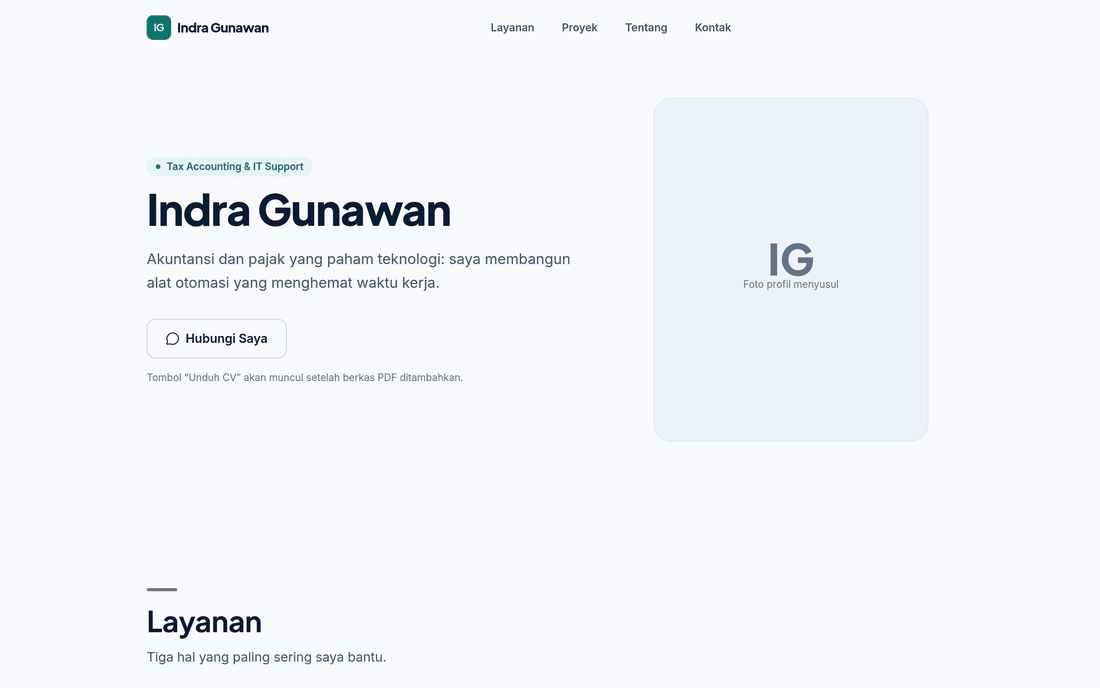
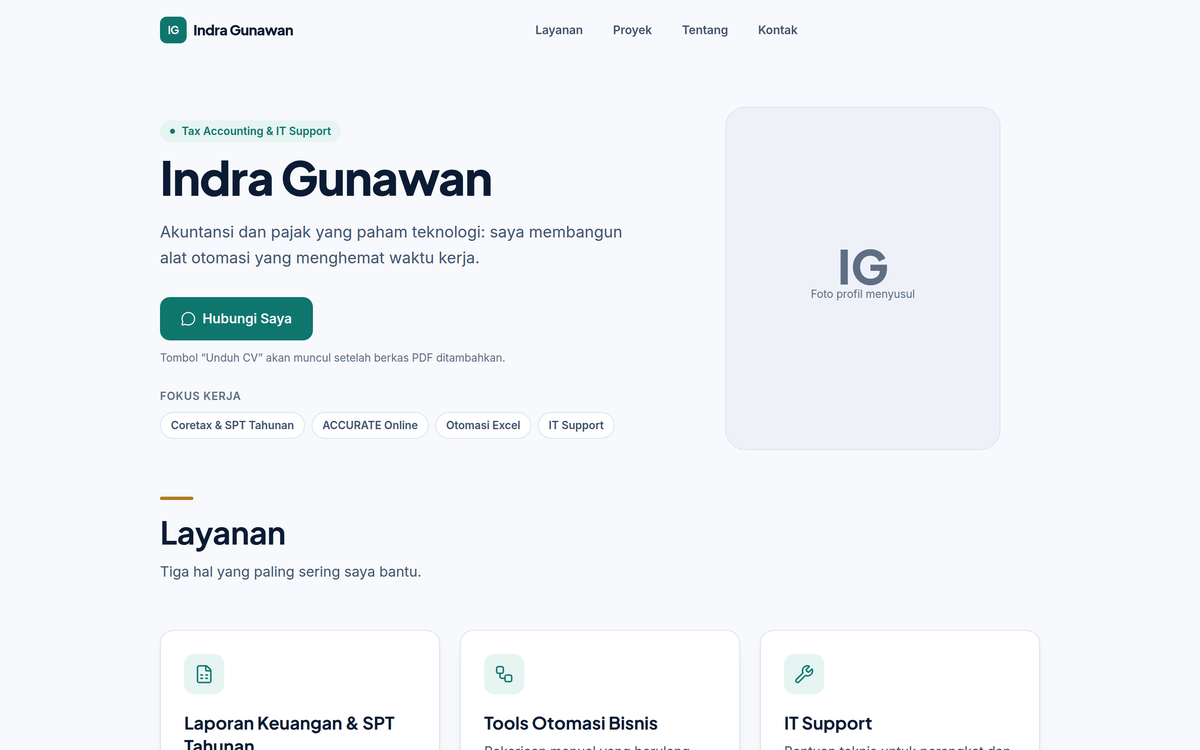
feat: polesan tampilan tahap 2 dan link uji lewat terowongan
Kontras, ritme jarak, dan CTA diperbaiki berdasarkan tinjauan tampilan nyata:

- Kontras teks: terang-ink-3 jadi #5f6e83 (4,62:1), gelap-ink-3 jadi #88a0ba
  (5,23:1); seluruh 18 pasangan warna >= 4,5:1 (AA)
- Anchor navbar tidak lagi menutupi judul bagian (scroll-margin-top 88px)
- Hero dipangkas, Layanan dan Proyek Pendukung memakai opsi rapatAtas
  (sekaligus memperbaiki bug jarak: pt-0 sebelumnya dikirim ke <section>)
- CTA Hero: Hubungi Saya jadi tombol utama, Unduh CV sekunder
- Label Fokus kerja + tekstur kisi halus di zona gelap
- Fitur unggulan dua kolom di layar lebar; label placeholder dirapikan
- Hapus ID video contoh milik orang lain dari proyek.js
- cdp.mjs: profil Chrome dibuat di folder sementara sistem dan dihapus saat
  ditutup (sebelumnya 52 folder sisa membuat /tmp penuh)
- vite.config.js: allowedHosts agar bisa diuji lewat terowongan

diff --git a/src/components/Hero.jsx b/src/components/Hero.jsx
@@ -45,7 +45,7 @@ export default function Hero() {
       aria-labelledby="hero-judul"
       className="bg-terang-bg pt-24 md:pt-32"
     >
-      <div className="mx-auto grid w-full max-w-isi items-center gap-10 px-5 pb-16 md:grid-cols-[1.15fr_0.85fr] md:gap-14 md:px-8 md:pb-24">
+      <div className="mx-auto grid w-full max-w-isi items-center gap-10 px-5 pb-10 md:grid-cols-[1.15fr_0.85fr] md:gap-14 md:px-8 md:pb-14">
         {/* ---------- Teks ---------- */}
         <motion.div {...gerakTeks}>
           <motion.p
@@ -73,7 +73,7 @@ export default function Hero() {
 
           <motion.div variants={varianAnak} className="mt-8 flex flex-wrap gap-3">
             {adaTautan(profil.cv) ? (
-              <Tombol href={profil.cv} variant="utama" ukuran="lg" ikon={Download} download>
+              <Tombol href={profil.cv} variant="sekunder" ukuran="lg" ikon={Download} download>
                 {teks.nav.unduhCv}
               </Tombol>
             ) : null}
@@ -82,7 +82,7 @@ export default function Hero() {
               href={tautanWhatsApp(
                 'Halo, saya melihat portofolio Anda dan ingin berdiskusi.',
               )}
-              variant="sekunder"
+              variant="utama"
               ukuran="lg"
               denganIkonWa
             >
@@ -90,12 +90,32 @@ export default function Hero() {
             </Tombol>
           </motion.div>
 
-          {/* Catatan bantu: HANYA saat mode contoh, tidak tampil di situs publik */}
+          {/* Catatan bantu: HANYA saat mode contoh, tidak tampil di situs publik.
+              Ditaruh langsung di bawah tombol supaya jelas merujuk ke tombol itu. */}
           {MODE_DUMMY && !adaTautan(profil.cv) ? (
-            <motion.p variants={varianAnak} className="mt-4 text-micro text-terang-ink-3">
+            <motion.p variants={varianAnak} className="mt-3 text-micro text-terang-ink-3">
               Tombol “Unduh CV” akan muncul setelah berkas PDF ditambahkan.
             </motion.p>
           ) : null}
+
+          {/* Penanda keahlian: mempercepat pengunjung memahami bidangnya (PRD §2) */}
+          <motion.p
+            variants={varianAnak}
+            className="mt-7 text-micro font-semibold uppercase tracking-wider text-terang-ink-3"
+          >
+            {teks.hero.fokusKerja}
+          </motion.p>
+          <motion.ul variants={varianAnak} className="mt-2.5 flex flex-wrap gap-2">
+            {profil.keunggulan.map((k) => (
+              <li
+                key={k}
+                className="rounded-full border border-terang-border bg-terang-surface px-3 py-1.5 text-micro font-semibold text-terang-ink-2"
+              >
+                {k}
+              </li>
+            ))}
+          </motion.ul>
+
         </motion.div>
 
         {/* ---------- Foto ---------- */}
@@ -103,7 +123,7 @@ export default function Hero() {
           initial={kurangiGerak ? false : { opacity: 0, y: 16 }}
           animate={kurangiGerak ? false : { opacity: 1, y: 0 }}
           transition={{ duration: 0.5, delay: 0.15, ease: [0.22, 1, 0.36, 1] }}
-          className="relative mx-auto w-full max-w-[280px] sm:max-w-[320px] md:max-w-[360px] md:justify-self-end"
+          className="relative mx-auto w-full max-w-[260px] sm:max-w-[300px] md:max-w-[330px] md:justify-self-end"
         >
           {/* Bingkai foto: rasio 4:5 */}
           <div className="relative overflow-hidden rounded-media border border-terang-border bg-terang-surface-2">

diff --git a/src/index.css b/src/index.css
@@ -16,7 +16,7 @@
   --color-terang-border-kuat: #c3cedf;
   --color-terang-ink: #0b1b33;
   --color-terang-ink-2: #41546e;
-  --color-terang-ink-3: #64748b; /* 4.76:1 di atas latar terang (AA) */
+  --color-terang-ink-3: #5f6e83; /* >=4.62:1 di semua permukaan zona terang (AA) */
 
   /* ---------- Zona gelap: IT, otomasi, demo ---------- */
   --color-gelap-bg: #0a1f38;
@@ -24,7 +24,7 @@
   --color-gelap-border: #1e4066;
   --color-gelap-ink: #eaf1f9;
   --color-gelap-ink-2: #a9bdd4;
-  --color-gelap-ink-3: #7b93ae;
+  --color-gelap-ink-3: #88a0ba; /* >=5.23:1 di semua permukaan zona gelap (AA) */
 
   /* ---------- Aksen (hanya dua: teal + emas) ---------- */
   --color-teal: #0f766e;
@@ -132,6 +132,28 @@ h4 {
 /* Gradasi perpindahan antar zona (DESIGN.md §2) */
 .zona-transisi {
   height: 128px;
+}
+
+/* Tekstur halus untuk zona gelap: kisi tipis 32 px supaya bidang gelap tidak
+   terasa rata, tanpa mengganggu teks. Ukurannya sengaja tidak terlihat jelas. */
+.latar-kisi {
+  background-image:
+    linear-gradient(to right, rgb(255 255 255 / 0.032) 1px, transparent 1px),
+    linear-gradient(to bottom, rgb(255 255 255 / 0.032) 1px, transparent 1px);
+  background-size: 32px 32px;
+  /* Hilangkan tekstur tepat di tepi atas/bawah agar pergantian zona tetap mulus */
+  mask-image: linear-gradient(to bottom, transparent, black 12%, black 88%, transparent);
+}
+
+/* Warna seleksi teks mengikuti aksen, bukan biru bawaan browser */
+::selection {
+  background: var(--color-teal-lembut);
+  color: var(--color-teal-tua);
+}
+
+/* Lompatan anchor tidak boleh tertutup navigasi tetap (72 px) */
+[data-jangkar] {
+  scroll-margin-top: 88px;
 }
 
 /* Hormati preferensi pengunjung: hilangkan transisi CSS apa pun */

diff --git a/src/components/ProyekUnggulan.jsx b/src/components/ProyekUnggulan.jsx
@@ -49,7 +49,7 @@ export default function ProyekUnggulan() {
           <div className="flex flex-wrap items-center gap-3">
             <LabelBidang anak={p.bidang} zona="gelap" />
             {p.teknologi?.length ? (
-              <span className="text-micro text-gelap-ink-3">{p.teknologi.join(' · ')}</span>
+              <span className="text-micro text-gelap-ink-2">{p.teknologi.join(' · ')}</span>
             ) : null}
           </div>
 
@@ -77,7 +77,7 @@ export default function ProyekUnggulan() {
               <p className="mb-2 text-micro font-semibold uppercase tracking-wider text-gelap-ink-3">
                 {teks.studiKasus.fitur}
               </p>
-              <ul className="flex flex-col gap-2">
+              <ul className="grid gap-2 lg:grid-cols-2 lg:gap-x-6">
                 {p.fitur.map((f) => (
                   <li key={f} className="flex items-start gap-2 text-body text-gelap-ink-2">
                     <CircleCheck
@@ -111,7 +111,7 @@ export default function ProyekUnggulan() {
           <div className="mt-8">
             <div className="mb-3 flex items-baseline justify-between gap-3">
               <h4 className="font-judul text-[17px] font-bold text-gelap-ink">Tangkapan layar</h4>
-              <span className="text-micro text-gelap-ink-3">{teks.catatan.galeri}</span>
+              <span className="text-micro text-gelap-ink-2">{teks.catatan.galeri}</span>
             </div>
             <Galeri daftar={p.galeri} zona="gelap" />
           </div>

diff --git a/src/components/ui/Bagian.jsx b/src/components/ui/Bagian.jsx
@@ -20,6 +20,7 @@ export default function Bagian({
   children,
   className = '',
   tanpaJudul = false,
+  rapatAtas = false,
 }) {
   const gelap = zona === 'gelap'
 
@@ -27,10 +28,20 @@ export default function Bagian({
     <section
       id={id}
       data-zona={zona}
+      data-jangkar
       aria-labelledby={judul ? `${id}-judul` : undefined}
       className={`relative ${gelap ? 'bg-gelap-bg text-gelap-ink' : 'bg-terang-bg text-terang-ink'} ${className}`}
     >
-      <div className="mx-auto w-full max-w-isi px-5 py-16 md:px-8 md:py-24">
+      {/* Tekstur kisi hanya di zona gelap, sebagai lapisan belakang (tidak menangkap klik) */}
+      {gelap ? (
+        <span aria-hidden="true" className="latar-kisi pointer-events-none absolute inset-0" />
+      ) : null}
+
+      <div
+        className={`relative mx-auto w-full max-w-isi px-5 md:px-8 ${
+          rapatAtas ? 'pb-16 pt-0 md:pb-24 md:pt-0' : 'py-16 md:py-24'
+        }`}
+      >
         {!tanpaJudul && judul ? (
           <header className="mb-10 max-w-2xl md:mb-14">
             {/* Garis emas pendek sebagai penanda judul (DESIGN.md §6) */}

diff --git a/src/data/pengalaman.js b/src/data/pengalaman.js
@@ -13,7 +13,7 @@ export const pengalaman = [
     id: 'akuntansi-pajak',
     peran: 'Staf Akuntansi & Pajak',
     tempat: 'Perusahaan Manufaktur',
-    periode: 'DUMMY — 20XX – sekarang',
+    periode: '20XX – sekarang',
     poin: [
       'Menyusun laporan keuangan bulanan dan tahunan',
       'Menghitung koreksi fiskal dan menyiapkan data SPT Tahunan',
@@ -24,7 +24,7 @@ export const pengalaman = [
     id: 'administrasi-keuangan',
     peran: 'Staf Administrasi Keuangan',
     tempat: 'Perusahaan Distribusi',
-    periode: 'DUMMY — 20XX – 20XX',
+    periode: '20XX – 20XX',
     poin: [
       'Mengelola kas kecil dan rekonsiliasi harian',
       'Membuat rekap penjualan dan pembelian untuk manajemen',
@@ -34,7 +34,7 @@ export const pengalaman = [
     id: 'it-support',
     peran: 'IT Support & Otomasi',
     tempat: 'Proyek lepas',
-    periode: 'DUMMY — 20XX – sekarang',
+    periode: '20XX – sekarang',
     poin: [
       'Merancang alat otomasi untuk pekerjaan administrasi berulang',
       'Instalasi dan perawatan perangkat serta jaringan kantor kecil',

diff --git a/src/components/ui/Galeri.jsx b/src/components/ui/Galeri.jsx
@@ -76,7 +76,11 @@ export default function Galeri({ daftar = [], zona = 'gelap' }) {
                   className="aspect-[16/10] w-full object-cover"
                 />
               ) : (
-                <MediaPlaceholder rasio="16 / 10" label={item.alt || 'Screenshot menyusul'} zona={zona} />
+                <MediaPlaceholder
+                  rasio="16 / 10"
+                  label={`${teks.catatan.tangkapanLayar} ${i + 1}`}
+                  zona={zona}
+                />
               )}
             </button>
           </li>
@@ -128,7 +132,11 @@ export default function Galeri({ daftar = [], zona = 'gelap' }) {
               />
             ) : (
               <div className="w-full max-w-3xl">
-                <MediaPlaceholder rasio="16 / 10" label={gambar.alt || 'Screenshot menyusul'} zona={zona} />
+                <MediaPlaceholder
+                  rasio="16 / 10"
+                  label={`${teks.catatan.tangkapanLayar} ${aktif + 1} — ${gambar.alt}`}
+                  zona={zona}
+                />
               </div>
             )}
 

diff --git a/src/data/proyek.js b/src/data/proyek.js
@@ -9,8 +9,6 @@
  * perusahaan atau pelanggan nyata.
  */
 
-import { MODE_DUMMY } from './teks.js'
-
 /* =============================================================================
    PROYEK UNGGULAN — satu studi kasus besar
    ========================================================================== */
@@ -47,7 +45,9 @@ export const proyekUnggulan = {
   // Komponen VideoEmbed menangani keduanya tanpa perlu diubah (PRD §7.3 butir 7).
   video: {
     tipe: 'youtube',
-    id: MODE_DUMMY ? 'dQw4w9WgXcQ' : '', // DUMMY: ganti dengan ID video unlisted Anda
+    // Sengaja DIBIARKAN KOSONG: jangan memakai ID video milik orang lain sebagai
+    // contoh. Selama kosong, situs menampilkan penanda rapi (PRD §11).
+    id: '',
     src: '', // dipakai bila tipe = 'mp4', contoh: '/media/demo-laporan.mp4'
     poster: '', // gambar poster, contoh: '/media/demo-poster.webp'
     judul: 'Rekaman layar: menyusun laporan dan menyiapkan angka SPT',

diff --git a/vite.config.js b/vite.config.js
@@ -4,9 +4,19 @@ import { defineConfig } from 'vite'
 
 // Situs statis satu halaman. `base: '/'` karena dipasang di root subdomain
 // (indragunawan.luckywater.web.id), bukan di dalam subfolder — PRD §8.
+// Host tambahan yang boleh mengakses dev/preview server. Dipakai saat situs
+// diuji lewat terowongan (mis. localhost.run) dari komputer lain.
+// Setel lewat variabel lingkungan: HOST_TEROWONGAN=".lhr.life" npm run dev -- --host 0.0.0.0
+const daftarHost = (process.env.HOST_TEROWONGAN || '.lhr.life,.trycloudflare.com')
+  .split(',')
+  .map((h) => h.trim())
+  .filter(Boolean)
+
 export default defineConfig({
   base: '/',
   plugins: [react(), tailwindcss()],
+  server: { allowedHosts: daftarHost },
+  preview: { allowedHosts: daftarHost },
   build: {
     // Pisahkan pustaka animasi & ikon dari bundel utama supaya halaman pertama
     // tetap ringan (target Lighthouse Performance >= 90, PRD §9).

diff --git a/src/components/ProyekPendukung.jsx b/src/components/ProyekPendukung.jsx
@@ -25,7 +25,7 @@ export default function ProyekPendukung() {
       zona="gelap"
       judul={teks.bagian.proyekPendukung}
       sub={teks.bagian.proyekPendukungSub}
-      className="pt-0 md:pt-0"
+      rapatAtas
     >
       <ul className="grid gap-5 md:grid-cols-3 md:gap-6">
         {proyekPendukung.map((p, i) => (
@@ -43,7 +43,11 @@ export default function ProyekPendukung() {
                 ) : (
                   <MediaPlaceholder
                     rasio="16 / 10"
-                    label={p.media?.tipe === 'demo' ? 'Demo ada di bawah' : 'Tangkapan layar menyusul'}
+                    label={
+                      p.media?.tipe === 'demo'
+                        ? teks.catatan.demoDiBawah
+                        : `${teks.catatan.tangkapanLayar} ${i + 1}`
+                    }
                     zona="gelap"
                   />
                 )}

diff --git a/src/data/teks.js b/src/data/teks.js
@@ -46,6 +46,11 @@ export const teks = {
     kontakSub: 'Mari bicara soal pekerjaan Anda.',
   },
 
+  // Hero
+  hero: {
+    fokusKerja: 'Fokus kerja',
+  },
+
   // Tombol
   tombol: {
     hubungi: 'Hubungi Saya',
@@ -83,8 +88,13 @@ export const teks = {
 
   // Catatan kecil / status
   catatan: {
-    sedangDikembangkan: 'Demo interaktif sedang disiapkan.',
+    sedangDikembangkan: 'Demo interaktif sedang disiapkan — rumusnya menunggu berkas asli.',
     galeri: 'Klik gambar untuk memperbesar.',
+    tangkapanLayar: 'Tangkapan layar',
+    videoMenyusul: 'Rekaman layar menyusul',
+    demoDiBawah: 'Demo ada di bawah',
+    periodeMenyusul: 'Periode menyusul',
+    segera: 'Segera',
   },
 
   // Footer

diff --git a/src/components/KalkulatorPPN.jsx b/src/components/KalkulatorPPN.jsx
@@ -47,6 +47,10 @@ export default function KalkulatorPPN() {
     <Bagian id="kalkulator" zona="gelap" judul={teks.kalkulator.judul} sub={teks.kalkulator.sub}>
       <Reveal>
         <Kartu zona="gelap" hover={false} className="mx-auto max-w-3xl">
+          <p className="mb-5 inline-flex items-center gap-2 rounded-full border border-emas-terang/50 px-3 py-1 text-micro font-semibold text-emas-terang">
+            {teks.catatan.segera}
+          </p>
+
           <div className="grid gap-6 md:grid-cols-2">
             {/* ---------- Isian ---------- */}
             <div className="flex flex-col gap-4">

diff --git a/src/data/profil.js b/src/data/profil.js
@@ -16,6 +16,10 @@ export const profil = {
   nilaiJual:
     'Akuntansi dan pajak yang paham teknologi: saya membangun alat otomasi yang menghemat waktu kerja.',
 
+  // Empat penanda keahlian yang tampil sebagai label kecil di bawah tombol Hero.
+  // Tujuan: pengunjung paham bidangnya dalam ±10 detik (PRD §2 tujuan 1).
+  keunggulan: ['Coretax & SPT Tahunan', 'ACCURATE Online', 'Otomasi Excel', 'IT Support'],
+
   // Foto utama di Hero. Taruh berkasnya di public/media/ lalu tulis path-nya di sini.
   // Kosongkan ('') untuk memakai placeholder inisial nama — tata letak tetap rapi.
   foto: '',
